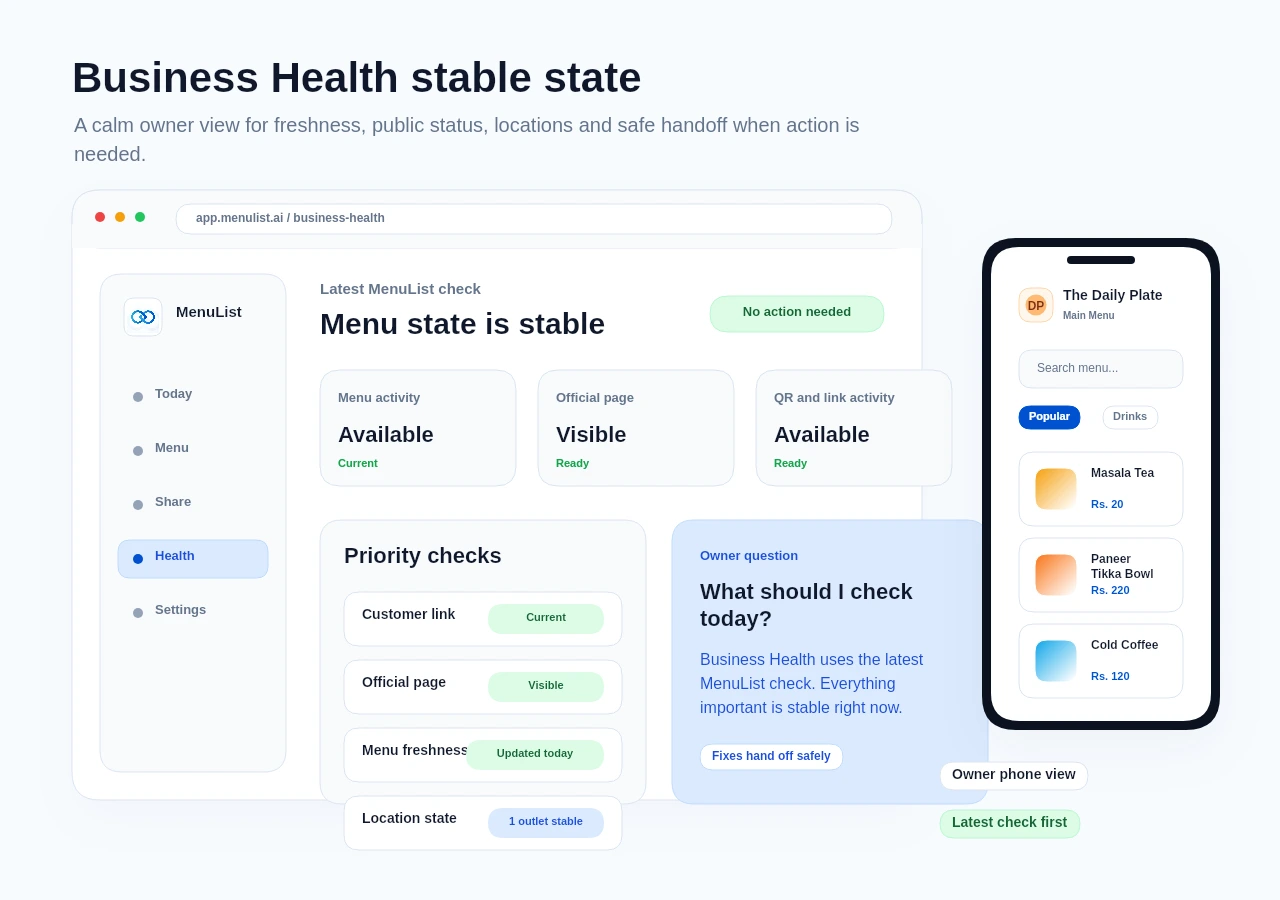
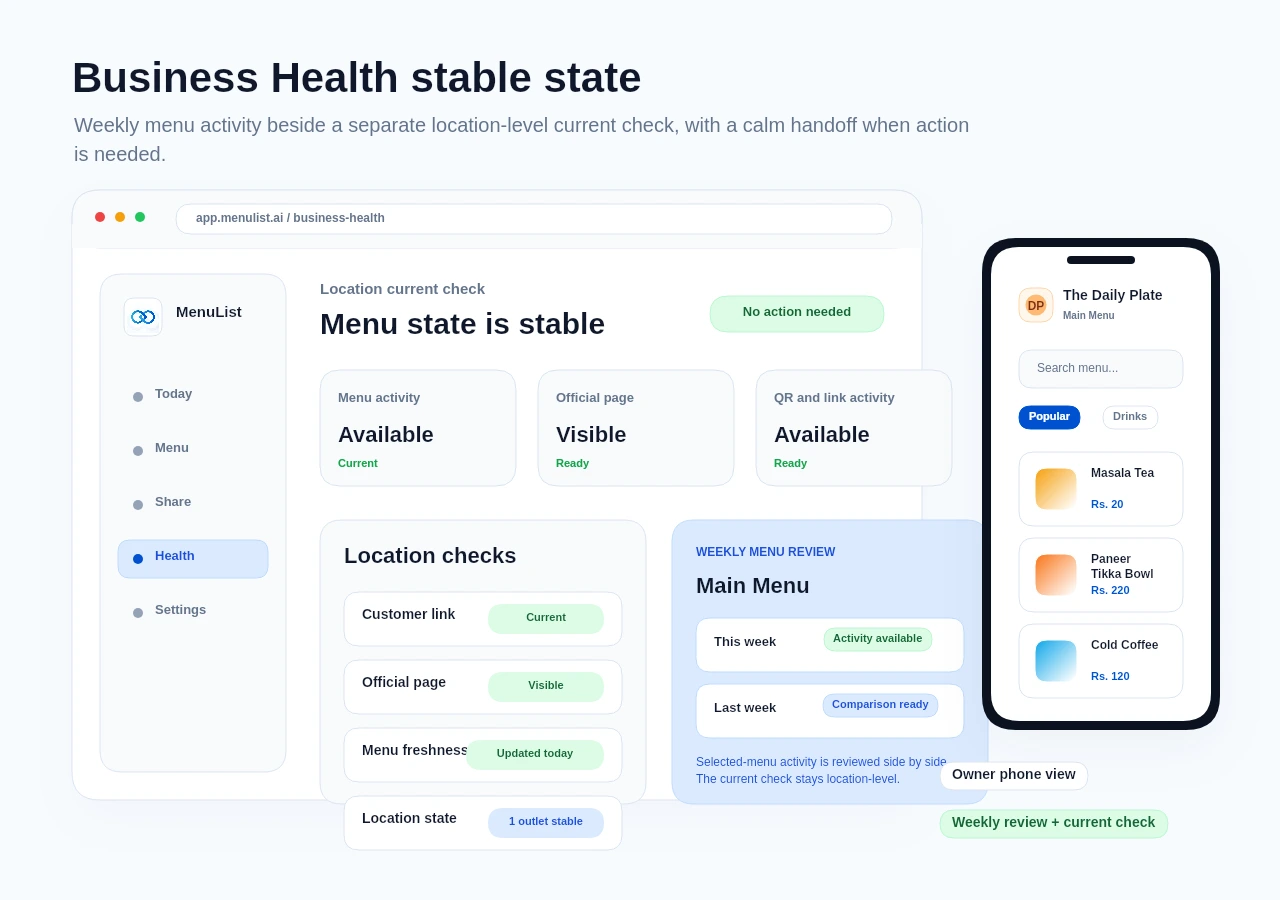
Refresh product proof assets and readiness checks

diff --git a/scripts/verification/verify-agent-readiness.js b/scripts/verification/verify-agent-readiness.js
@@ -985,6 +985,9 @@ function verifyEnvironmentTargets() {
   assertIncludes(menulistProductionProviderSetup, 'Firebase Functions execute inside Google Cloud.', 'MenuList production provider ledger Functions ADC boundary');
   assertIncludes(menulistProductionProviderSetup, '`roles/iam.workloadIdentityUser`', 'MenuList production provider ledger exact federated impersonation role');
   assertIncludes(menulistProductionProviderSetup, '`roles/iam.serviceAccountTokenCreator`', 'MenuList production provider ledger Firebase custom-token signing role');
+  assertIncludes(menulistProductionProviderSetup, 'projects/menulist-prod/locations/us-central1/queues/batch-image-generation', 'MenuList production Cloud Tasks queue evidence');
+  assertIncludes(menulistProductionProviderSetup, 'A separate project-policy query returned no project-level', 'MenuList production queue-only IAM evidence');
+  assertIncludes(menulistProductionProviderSetup, '4 maximum dispatches per\n  second, 8 concurrent dispatches, 5 maximum attempts', 'MenuList production Cloud Tasks bounded rate and retry evidence');
   assertIncludes(menulistProductionProviderSetup, '### Exact next action for `PROD-B11`', 'MenuList production provider ledger next step');
   assertIncludes(productSetupDoc, 'Use full product names in environment variable keys', 'Product setup doc env-key naming contract');
   assert(rootPackageJson.scripts['verify:menulist-firebase-rules-predeploy'] === 'node scripts/verification/run-menulist-firebase-rules-predeploy.mjs', 'Root package must expose the MenuList Firebase rules predeploy gate');

diff --git a/scripts/verification/verify-async-data-flow-boundaries.js b/scripts/verification/verify-async-data-flow-boundaries.js
@@ -47,8 +47,8 @@ const paymentHook = fs.readFileSync(path.join(ROOT, 'src/hooks/usePaymentHandler
 assert((paymentHook.match(/ondismiss: \(\) => reject\(createCheckoutDismissedError\(\)\)/g) || []).length === 3, 'Every Razorpay checkout must settle on modal dismissal');
 assert(paymentHook.includes("readPaymentResponseJson<unknown>"), 'Payment provider responses must enter through unknown runtime shapes');
 assert(paymentHook.includes('const checkoutInFlightRef = useRef(false);'), 'Payment checkout must use a synchronous duplicate-operation guard');
-assert((paymentHook.match(/if \(checkoutInFlightRef\.current\)/g) || []).length === 4, 'Subscription, upgrade, top-up, and onboarding checkout entry points must reject same-tick duplicates');
-assert((paymentHook.match(/checkoutInFlightRef\.current = false;/g) || []).length === 4, 'Every guarded checkout path must release its duplicate-operation guard after settlement');
+assert((paymentHook.match(/if \(checkoutInFlightRef\.current\)/g) || []).length === 5, 'Subscription, pending-subscription continuation, upgrade, top-up, and onboarding checkout entry points must reject same-tick duplicates');
+assert((paymentHook.match(/checkoutInFlightRef\.current = false;/g) || []).length === 5, 'Every guarded checkout path must release its duplicate-operation guard after settlement');
 
 const pdfUtility = fs.readFileSync(path.join(ROOT, 'src/components/templates/main-app/projects/utils/pdfUtils.ts'), 'utf8');
 assert(pdfUtility.includes('pdfjsLoadPromise = null;'), 'PDF loader failures must permit retry');

diff --git a/scripts/verification/verify-ticket-notification-boundary.js b/scripts/verification/verify-ticket-notification-boundary.js
@@ -69,13 +69,15 @@ for (const token of [
   'if (!claim.claimed) return false;',
   'finalizeNotificationDelivery({',
   'productId: PRODUCT_IDS.ANSWERLATTICE',
-  'productId: productId || PRODUCT_IDS.MENULIST',
+  'if (productId === PRODUCT_IDS.MENULIST) {',
+  'productId: PRODUCT_IDS.MENULIST',
   ".where('productId', '==', target.productId)",
   'connectionTimeout: 10_000',
   'greetingTimeout: 10_000',
   'socketTimeout: 15_000',
   '`<${getSafeLogId(eventType, referenceId)}@menulist.ai>`',
 ]) requireText(sender, token, 'notification sender');
+forbidText(sender, 'productId: productId || PRODUCT_IDS.MENULIST', 'notification sender product isolation');
 const hasIndex = (manifest, collectionGroup, fields) => manifest.indexes.some((index) => (
   index.collectionGroup === collectionGroup
   && fields.every((field, position) => index.fields[position]?.fieldPath === field)

diff --git a/scripts/verification/verify-ai-accounting-hardening.js b/scripts/verification/verify-ai-accounting-hardening.js
@@ -383,7 +383,7 @@ for (const route of billableRoutes) {
     'billingStoreId: subscriptionStoreId',
     'accountingBillingStoreId: Number(expected.billingStoreId)',
     'getPersistedBillingStoreId',
-    'remainingBalance: { billingStoreId: Number(expected.billingStoreId)',
+    'remainingBalance: {\n                billingStoreId: Number(expected.billingStoreId),',
   ].forEach((token) => assert(capacityCore.includes(token), `AI capacity core preserves effective inherited billing scope token ${token}`));
   assert(accountingCore.includes('paid provider work requires a pre-provider credit reservation'), 'shared accounting rejects unreserved paid provider output');
   assert(accountingCore.includes('finalizeAiCapacityReservation'), 'shared accounting settles reserved capacity atomically');

diff --git a/__docs__/deployment/menulist-production-provider-setup.md b/__docs__/deployment/menulist-production-provider-setup.md
@@ -3,7 +3,7 @@
 > **Status:** Active owner/provider preparation ledger
 > **Scope:** MenuList production accounts, projects, credentials, and inactive provider configuration
 > **Last updated:** August 16, 2026
-> **Current progress:** 39 of 61 checks complete; `PROD-B11` keyless architecture and provider preparation are complete with hosted proof release-gated; `PROD-B12` PITR and its restore drill are complete; `PROD-B13` App Check is registered in monitoring mode; production Gemini billing/credentials, the isolated production Sentry project, the exact-host Maps Embed credential, the isolated production Upstash database plus environment wiring, and the MFA-protected MenuList Resend boundary with verified outbound DNS and isolated production credentials/webhook are prepared; the existing company Razorpay Test Mode API pair is temporarily wired to the pre-live production candidate while KYC, Live Mode credentials, and the endpoint-specific production webhook remain release blockers; the current production Functions secret manifest is complete with a distinct internal budget-webhook secret; GA4, Telegram, and external uptime monitoring remain intentionally omitted; the MenuList-only Production environment inventory, exact domain rows, production Firebase Web/keyless server configuration, admitted-provider environment wiring, optional-provider fail-closed review, non-secret Functions runtime configuration, non-deploy source/configuration verification, and metadata-only environment-separation review are prepared; the full `menulist-qa` pass is complete; and both Answerlattice targets are explicitly pending
+> **Current progress:** 39 of 61 checks complete; `PROD-B11` keyless architecture, provider preparation, production Cloud Tasks queue, and queue-scoped enqueuer IAM are complete with hosted proof release-gated; `PROD-B12` PITR and its restore drill are complete; `PROD-B13` App Check is registered in monitoring mode; production Gemini billing/credentials, the isolated production Sentry project, the exact-host Maps Embed credential, the isolated production Upstash database plus environment wiring, and the MFA-protected MenuList Resend boundary with verified outbound DNS and isolated production credentials/webhook are prepared; the existing company Razorpay Test Mode API pair is temporarily wired to the pre-live production candidate while KYC, Live Mode credentials, and the endpoint-specific production webhook remain release blockers; the current production Functions secret manifest is complete with a distinct internal budget-webhook secret; GA4, Telegram, and external uptime monitoring remain intentionally omitted; the MenuList-only Production environment inventory, exact domain rows, production Firebase Web/keyless server configuration, admitted-provider environment wiring, optional-provider fail-closed review, non-secret Functions runtime configuration, non-deploy source/configuration verification, and metadata-only environment-separation review are prepared; the full `menulist-qa` pass is complete; and both Answerlattice targets are explicitly pending
 
 This is the step-by-step production provider setup guide for MenuList. It may
 run in parallel with the remaining staging feature-certification flows, but it
@@ -440,9 +440,7 @@ Blocked until staging feature certification and production release gates pass:
   bucket-scoped `roles/storage.objectAdmin`, self-scoped
   `roles/iam.serviceAccountTokenCreator`, and exact-subject
   `roles/iam.workloadIdentityUser` are applied. IAM readback reports zero
-  user-managed keys. The production Cloud Tasks queue does not exist yet, so
-  `roles/cloudtasks.enqueuer` remains intentionally pending at queue scope
-  until the approved production resource/deploy path creates it. Vercel
+  user-managed keys. Vercel
   Production contains the five exact encrypted WIF selectors with deterministic
   readback and contains neither legacy MenuList Admin credential variable.
   `PROD-B11` remains open until a release-approved hosted Production deployment
@@ -450,6 +448,54 @@ Blocked until staging feature certification and production release gates pass:
   token signing, Firestore, Storage, and the eventual queue-scoped Cloud Tasks
   operation. No production alias, DNS, application secret, runtime traffic, or
   business data was changed.
+- `2026-08-16` - The production Cloud Tasks prerequisite for `PROD-B11` was
+  completed without creating or running a task. Queue
+  `projects/menulist-prod/locations/us-central1/queues/batch-image-generation`
+  is `RUNNING` with the proven QA-parity limits: 4 maximum dispatches per
+  second, 8 concurrent dispatches, 5 maximum attempts, 5-second minimum
+  backoff, and 300-second maximum backoff. It contains zero tasks. Exact queue
+  IAM readback contains only `roles/cloudtasks.enqueuer` for
+  `serviceAccount:menulist-vercel-prod@menulist-prod.iam.gserviceaccount.com`.
+  A separate project-policy query returned no project-level
+  `roles/cloudtasks.enqueuer` match for that principal. This closes the queue
+  resource and least-privilege IAM prerequisite only; `PROD-B11` remains open
+  until the first release-approved Production deployment proves the hosted
+  OIDC exchange and the complete Firebase/Storage/Cloud Tasks runtime path.
+- `2026-08-16` - The latest `staging` push was verified on the exact Vercel
+  custom-`qa` deployment `dpl_395c2D5ZJfybiDgLrPrjVv5GBkZK`. Deployment URL,
+  `app.menulist.digital`, and `menulist.digital` all return build commit
+  `0ad6bc7ba0950f0d69375c9eef2df5ef8fbdfb0f`; the deployment is `Ready`, and
+  its runtime-log inventory reports zero warnings, errors, or fatals. This is
+  QA deployment evidence only: `/api/version` truthfully reports build
+  environment `preview`. Vercel has no current Production deployment. Its sole
+  Production record is the failed August 11 build from obsolete commit
+  `159005a3a0032cc24ba2d789b6f5cf8a18a7736e`. Repository default branch `main`
+  is currently `2efe5cf8200c39d7d3d1b7b5f2658c9a3b434151`, while `staging` and local
+  `HEAD` are the verified `0ad6bc7` commit. Do not promote the QA artifact or
+  treat it as Production OIDC evidence. A true Production rebuild remains
+  gated by completed staging certification and explicit `PROD-F05` Vercel
+  deploy approval.
+- `2026-08-16` - The current source/configuration recheck passed the Vercel
+  workload-identity contract, Functions deploy preflight (including Functions
+  lint and TypeScript compilation), configuration safety, all 42 MenuList
+  Firestore-rules emulator scripts, root TypeScript, root ESLint, verifier
+  syntax, and diff whitespace checks. Vercel metadata-only readback confirms
+  both custom `qa` and Production contain the scoped
+  `MENULIST_UPSTASH_REDIS_REST_URL` and
+  `MENULIST_UPSTASH_REDIS_REST_TOKEN` variables; values were not exported.
+  The local Upstash runtime probe remains intentionally unavailable because
+  managed provider secrets are not copied into the operator shell. The six
+  stale MenuList AssetOS records were reviewed on August 16: five visuals still
+  matched their changed source boundaries, and the Business Health proof was
+  refreshed and founder-approved with Weekly Menu Review kept separate from
+  the location-level current check. All MenuList asset fingerprints are now
+  current. Eight Answerlattice AssetOS records remain deliberately pending
+  under the product rollout sequence. The wider production-readiness aggregate
+  is still not green because those deferred Answerlattice records and the
+  data-flow collection inventory require explicit review. Do not rewrite either
+  evidence set or infer approval merely to make the aggregate pass. These are
+  release-certification gates, not missing production OIDC, Cloud Tasks, or
+  managed-secret configuration.
 
 ## `PROD-B11` Keyless Runtime Decision
 
@@ -558,14 +604,13 @@ but no Functions package, secret, env key, or deployment changes under
    `firebase-adminsdk-fbsvc@menulist-qa.iam.gserviceaccount.com`; IAM readback
    confirms zero user-managed keys remain. MenuList QA is closed.
 6. The dedicated `menulist-prod` pool, provider, service account, current
-   least-privilege IAM, zero-key readback, and five Vercel Production selectors
-   are prepared. Do not run a Production deployment merely to probe OIDC. First
-   finish the independent production runtime-variable/provider gates and create
-   the production Cloud Tasks queue through the approved release path. At the
-   first release-approved hosted Production deployment, add only the
-   queue-scoped enqueuer binding and run the full OIDC/runtime proof before
-   checking `PROD-B11`. Answerlattice QA and production remain explicitly
-   pending until the MenuList production pass closes.
+   least-privilege IAM, zero-key readback, five Vercel Production selectors,
+   production Cloud Tasks queue, and queue-scoped enqueuer binding are
+   prepared. Do not create a separate probe deployment. At the first
+   release-approved hosted Production deployment, run the full OIDC/runtime
+   proof, including a bounded queue operation, before checking `PROD-B11`.
+   Answerlattice QA and production remain explicitly pending until the MenuList
+   production pass closes.
 
 ## Phase B - Firebase And Google Cloud Foundation
 

diff --git a/__docs__/deployment/README.md b/__docs__/deployment/README.md
@@ -28,9 +28,9 @@ Deployment guides and checklists for shipping MenuList.ai to production (Vercel 
 
 | Area | Current state | Resume point |
 | --- | --- | --- |
-| QA infrastructure and keyless runtime | Configuration is prepared under the recorded one-maintainer exception. The custom Vercel `qa` environment tracks only branch `staging`; commit `5161d998e0ff4dcc0358cda02ec0e942856a4550` is Ready and proves canonical-host isolation, authenticated keyless runtime, and zero exact-deployment warning/error/fatal logs. App Check monitoring records verified Authentication and Firestore traffic; the dedicated Maps Embed-only key/host restrictions are prepared. The isolated company-team QA Redis database is Pay as You Go with a provider-confirmed USD 20 hard cap and no Prod Pack. | Hosted feature/provider certification is deliberately deferred until both MenuList QA and production configuration are complete. Later, produce one bounded verified Storage request and certify the map embed on an authorized location-enabled QA fixture before App Check enforcement. Do not manufacture fixture traffic or enable enforcement early. |
-| Production Google/Firebase foundation | Project `menulist-prod`, billing, budget, Blaze, `us-central1` Firestore and Storage, empty Authentication, Web app, required APIs, Workload Identity Federation, zero-key service account, Vercel Production selectors, Firestore PITR, App Check monitoring-mode registration, canonical Neelvara aliases, production OAuth/NextAuth, Gemini Paid Tier import, INR 750 cap, two service-account-bound Gemini credentials, the isolated `menulist-prod` Sentry project, the isolated `menulist-prod-rate-limit` Upstash database with a USD 20 hard cap and no Prod Pack, its sensitive Production-only Vercel variables and enabled `menulist-prod` Secret Manager versions, Upstash account MFA plus company-team enforcement and operational alerts, the frozen 13-event Razorpay production webhook contract, the temporarily shared company Test Mode Razorpay API pair, the complete current Functions secret manifest with a distinct production budget-webhook secret, the Maps Embed-only production key/host restrictions, and the MenuList-only managed-env/domain/Firebase Web/admitted-provider inventory are prepared. The MFA-protected `MenuList` Resend boundary is also prepared with verified outbound `menulist.ai` DNS, distinct QA/production sending-only keys and signed webhooks, and enabled version-1 product-scoped secrets in both Firebase projects. Optional provider paths are reviewed fail-closed, the non-secret Functions production env is prepared, the production revalidation secret is rotated consistently across Vercel and Secret Manager, and the maintained non-deploy source/configuration plus metadata-only separation gates pass; GA4, Telegram, external uptime monitoring, and production WhatsApp remain intentionally omitted. | Configuration is complete as far as the current no-deploy/no-testing/legal-document boundary allows. Razorpay Test Mode API credentials are wired only for a pre-live candidate; `PROD-D05`-`D07` remain open until truthful legal/KYC documents, dedicated Live Mode keys, and the endpoint-specific production webhook exist. `PROD-D09`-`D10` remain parked: do not reuse QA Meta assets, create production WhatsApp secrets, register a callback, enable messaging, or send. `PROD-D14` remains open until final business-owned provider controls exist. The next executable phase is the separately approved QA deploy/certification sequence, followed by the guarded production release; do not start Phase F traffic or provider activation from configuration status alone. |
-| Production hosted OIDC proof | Provider and IAM preparation are complete, but no Production deployment was created merely to probe identity. | Close `PROD-B11` during the first release-approved Production deployment, after the production Cloud Tasks queue and queue-scoped IAM binding exist. |
+| QA infrastructure and keyless runtime | Configuration is prepared under the recorded one-maintainer exception. The custom Vercel `qa` environment tracks only branch `staging`; commit `0ad6bc7ba0950f0d69375c9eef2df5ef8fbdfb0f` is Ready on the exact Vercel deployment `dpl_395c2D5ZJfybiDgLrPrjVv5GBkZK`. The deployment and both canonical QA hosts return the same build identity, and the exact-deployment runtime log inventory reports zero warnings, errors, or fatals. Earlier evidence proves canonical-host isolation and authenticated keyless runtime. App Check monitoring records verified Authentication and Firestore traffic; the dedicated Maps Embed-only key/host restrictions are prepared. The isolated company-team QA Redis database is Pay as You Go with a provider-confirmed USD 20 hard cap and no Prod Pack. | Hosted feature/provider certification is deliberately deferred until both MenuList QA and production configuration are complete. Later, produce one bounded verified Storage request and certify the map embed on an authorized location-enabled QA fixture before App Check enforcement. Do not manufacture fixture traffic or enable enforcement early. |
+| Production Google/Firebase foundation | Project `menulist-prod`, billing, budget, Blaze, `us-central1` Firestore and Storage, empty Authentication, Web app, required APIs, Workload Identity Federation, zero-key service account, Vercel Production selectors, the running zero-task `batch-image-generation` Cloud Tasks queue with QA-parity dispatch/retry limits, its queue-only `roles/cloudtasks.enqueuer` binding, Firestore PITR, App Check monitoring-mode registration, canonical Neelvara aliases, production OAuth/NextAuth, Gemini Paid Tier import, INR 750 cap, two service-account-bound Gemini credentials, the isolated `menulist-prod` Sentry project, the isolated `menulist-prod-rate-limit` Upstash database with a USD 20 hard cap and no Prod Pack, its sensitive Production-only Vercel variables and enabled `menulist-prod` Secret Manager versions, Upstash account MFA plus company-team enforcement and operational alerts, the frozen 13-event Razorpay production webhook contract, the temporarily shared company Test Mode Razorpay API pair, the complete current Functions secret manifest with a distinct production budget-webhook secret, the Maps Embed-only production key/host restrictions, and the MenuList-only managed-env/domain/Firebase Web/admitted-provider inventory are prepared. The MFA-protected `MenuList` Resend boundary is also prepared with verified outbound `menulist.ai` DNS, distinct QA/production sending-only keys and signed webhooks, and enabled version-1 product-scoped secrets in both Firebase projects. Optional provider paths are reviewed fail-closed, the non-secret Functions production env is prepared, the production revalidation secret is rotated consistently across Vercel and Secret Manager, and the maintained non-deploy source/configuration plus metadata-only separation gates pass; GA4, Telegram, external uptime monitoring, and production WhatsApp remain intentionally omitted. | Configuration is complete as far as the current no-deploy/no-testing/legal-document boundary allows. Razorpay Test Mode API credentials are wired only for a pre-live candidate; `PROD-D05`-`D07` remain open until truthful legal/KYC documents, dedicated Live Mode keys, and the endpoint-specific production webhook exist. `PROD-D09`-`D10` remain parked: do not reuse QA Meta assets, create production WhatsApp secrets, register a callback, enable messaging, or send. `PROD-D14` remains open until final business-owned provider controls exist. The next executable phase is the separately approved QA deploy/certification sequence, followed by the guarded production release; do not start Phase F traffic or provider activation from configuration status alone. |
+| Production hosted OIDC proof | Provider, least-privilege IAM, production queue, and queue-scoped enqueuer preparation are complete, but no current Production deployment exists. The sole Vercel Production record is the failed August 11 deployment from obsolete commit `159005a3a0032cc24ba2d789b6f5cf8a18a7736e`; it is not release evidence. | Do not promote the QA artifact because its build identity is `preview`. After staging certification and explicit Vercel Production approval, create a true Production build and close `PROD-B11` by proving OIDC, Firebase Auth, Firestore, Storage, and one bounded Cloud Tasks operation. |
 | Answerlattice | Deliberately pending. | Start only after MenuList production setup closes. |
 
 ### Document consolidation decision

diff --git a/__docs__/main-website/asset-production/stage-08-product-proof/stage-08-product-proof-demo-assets.md b/__docs__/main-website/asset-production/stage-08-product-proof/stage-08-product-proof-demo-assets.md
@@ -1,20 +1,20 @@
 # Stage 8 Product Proof Demo Asset Pack
 
-Generated: 2026-08-01
+Generated: 2026-08-16
 
 This pack adds market-first product proof images for the current MenuList website pass. The assets use fictional demo data for The Daily Plate and are not real customer screenshots, testimonials, customer proof, or live usage evidence.
 
 ## Generated Files
 
 - public/images/website/product-proof/ai-menu-manager-approval-card.webp (62 KB)
-- public/images/website/product-proof/business-health-stable-check.webp (71 KB)
+- public/images/website/product-proof/business-health-stable-check.webp (72 KB)
 - public/images/website/product-proof/owner-phone-dashboard.webp (40 KB)
 - public/images/website/print-ready-kit/print-assets-editor.jpg (96 KB)
 
 ## Alignment Notes
 
 - AI Menu Manager visual mirrors the owner message -> prepared card -> approval -> receipt contract.
-- Business Health visual mirrors the stable latest-check state, No action needed language, public-status availability, and safe handoff posture.
+- Business Health visual keeps Weekly Menu Review separate from the location-level current check, preserves No action needed language, and avoids invented activity or performance metrics.
 - Owner phone dashboard visual mirrors the mobile owner output pattern: health state, share link, public-link readiness, and tab navigation.
 - Print-ready editor visual is deterministic fictional proof of the current menu-link, layout, and safe export controls.
 - Business details, menu items, prices, and URLs are fictional demo values. No invented activity counts or performance percentages are shown.
